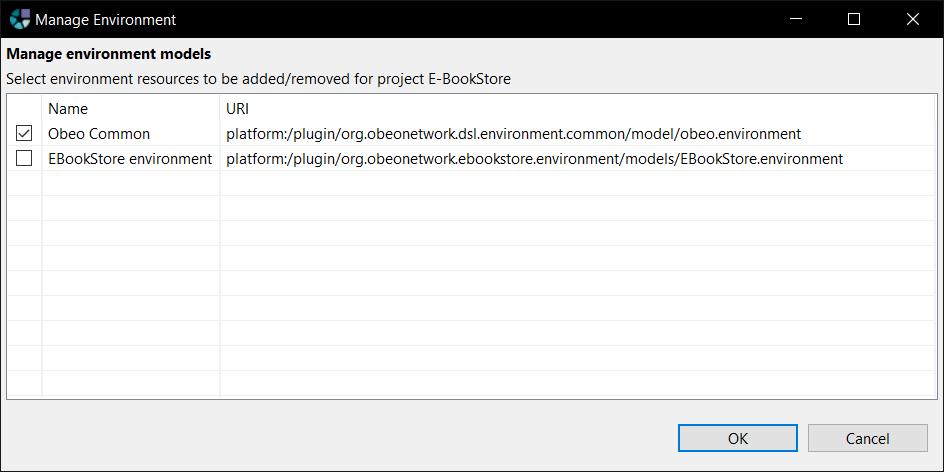
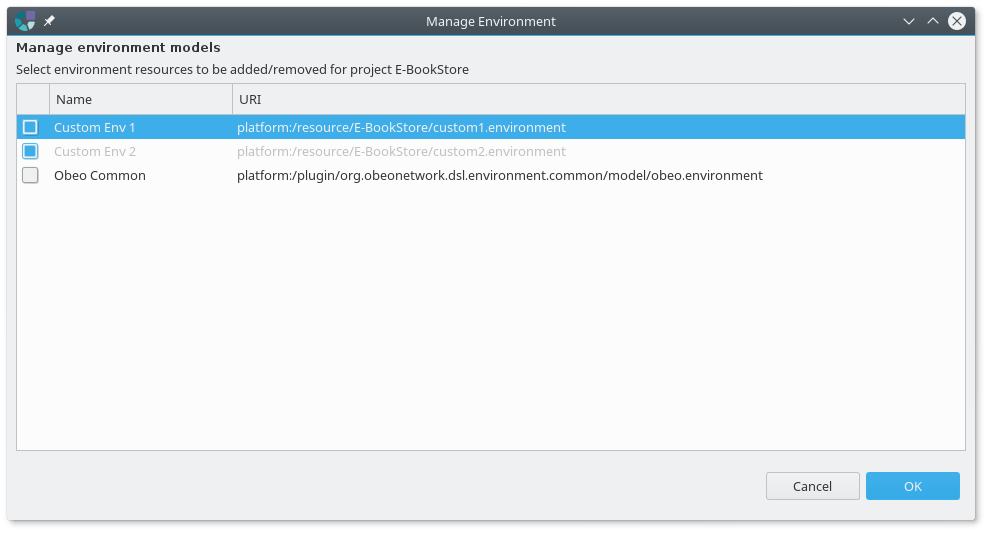
[SAFRAN-844] Show session resources in environment managment dialog - documentation

Changed region(s): [[0.0, 0.0, 1.0, 1.0]]

diff --git a/designs/environment/plugins/org.obeonetwork.dsl.environment.design.doc/doc/Obeo Network - Environment tooling.html b/designs/environment/plugins/org.obeonetwork.dsl.environment.design.doc/doc/Obeo Network - Environment tooling.html
@@ -13,33 +13,42 @@
 			<code>Contact</code> guillaume.coutable@obeo.fr
 		</p>
 		<h1 id="ObeoNetworkOutillageenvironnement">Obeo Network &#8211; Outillage environnement</h1>
-		<p>les modèles environnements sont principalement utilisés pour définir des librairies de types dans le but de rendre ces types disponibles dans les modèles Safr@n.
-			<br/>Avant la version Safr@n 1.9 le modèle &#171;obeo.environment&#187; était ajouté par défaut dans les dépendances des projets modeling. Depuis la version Safr@n 1.9 il est possible de choisir quelles seront les ressources environnements ajoutées lors de la création d&#8217;un projet modeling, ainsi que de gérer les ressources environnement d&#8217;un projet.
+		<p>Les modèles environnements sont principalement utilisés pour définir des librairies de types dans le but de rendre ces types disponibles dans les modèles Safr@n.
+			<br/>Avant la version Safr@n 1.9 le modèle &#171;obeo.environment&#187; était ajouté par défaut dans les dépendances des projets modeling. Depuis la version Safr@n 1.9 il est possible de choisir les ressources environnements ajoutées lors de la création d&#8217;un projet modeling, ainsi que de gérer les ressources environnement d&#8217;un projet.
 		</p>
-		<h2 id="Crationdunprojetmodeling">Création d&#8217;un projet modeling</h2>
-		<p>A la création d&#8217;un projet modeling la ressource &#171;obeo.environement&#187; est ajoutée par defaut. Il est possible de contribuer au point d&#8217;extension &#171;org.obeonetwork.dsl.environment.providedEnvironmentModel&#187; pour modifier le choix par défaut de la ressource environnement. Si une ou plusieurs ressources environnements sont contribuées, la ou les ressources ajoutées par défaut seront celles dont la priorités est la plus élevée.</p>
-		<p>Note: La ressource &#171;obeo.environment&#187; est contribuée à l&#8217;aide de ce point d&#8217;extension avec une priorité de zéro.</p>
+		<h2 id="modeling_project_creation">Création d&#8217;un projet modeling</h2>
+		<p>A la création d&#8217;un projet modeling la ressource &#171;obeo.environment&#187; est ajoutée par defaut.</p>
+		<p>Ce comportement repose sur l&#8217;utilisation du point d&#8217;extension &#171;org.obeonetwork.dsl.environment.providedEnvironmentModel&#187; qui permet de définir les modèles environnement utilisables dans le studio.</p>
+		<p>Ce point d&#8217;extenion permet de contribuer des modèles environement en définissant pour chacun d&#8217;eux :</p>
+		<ul>
+			<li>Un nom</li>
+			<li>Une URI</li>
+			<li>Une priorité</li>
+		</ul>
+		<p>A la création d&#8217;un projet modeling, seuls les modèles environnement dont la priorité est la plus élevée sont chargés. La ressource &#171;obeo.environment&#187; est contribuée à ce point d&#8217;extension avec la priorité 0. (Ainsi, si un autre modèle environement est contribué avec la priorité 0, ces deux modèles seront chargés par défaut à la création d&#8217;un projet modeling).</p>
 		<h2 id="manage_env_resource">Gestion des ressources environnement</h2>
-		<p>Il est possible de faire apparaître une boîte de dialogue permettant de gérer les ressources environnemet d&#8217;un projet modeling en utilisant le menu &#171;clic-droit -&gt; Manage environment resources&#187; soit sur un projet modeling, soit sur une ressource aird ou soit sur l'élément "Project Dependencies"</p>
+		<p>La boîte de dialogue &#171;Manage Environment&#187; permet de gérer les ressources environnement pour un projet de modélisation donné. Elle est mise à disposition par l&#8217;action &#171;Manage environment resources&#187; du menu contextuel d&#8217;un projet modeling, d&#8217;une ressource aird, ou de l'élément &#171;Project Dependencies&#187; :</p>
 		<p>
 			<img style="width:1200px" border="0" src="./pics/Manage environment resources - actions.png"/>
 		</p>
-		<p>La boîte de dialogue est composé d&#8217;un tableau listant toutes les ressources environnements de IS Designer. Les premières ressources affichées sont celles présentes dans les dépendances du projet.</p>
+		<p>La boîte de dialogue est composée d&#8217;un tableau listant toutes les ressources environnements accessibles pour le projet modeling concerné.
+			<br/>Les ressources environnment se trouvant dans le projet sont automatiquement actives et ne peuvent pas être désactivées. Elles sont présentées en gris.
+			<br/>Les ressources environnement apportées par point d&#8217;extension sont désactivables en décochant la case à cocher en début de ligne. Elles sont présentées en noir.
+		</p>
 		<p>
 			<img style="width:800px" border="0" src="./pics/Manage environment resources - dialog.png"/>
 		</p>
-		<p>Il est possible d&#8217;ajouter et de retirer des dépendances du projet en cochant ou en décochant la checkbox en début de ligne. Le résultat sera appliqué lors de la validation de la boîte de dialogue.
-			<br/>Si certains éléments d&#8217;une ressource retirée du projet sont utilisés dans d&#8217;autres ressources, un message d&#8217;avertissement s&#8217;affiche.
-		</p>
+		<p>Le résultat de la sélection est appliqué lors de la validation de la boîte de dialogue.</p>
+		<p>Dans le cas du décochage d&#8217;une ressource, une vérification est faite pour s&#8217;assurer que les éléments contenus dans la ressource ne sont pas utilisés dans le projet modeling. Si certains éléments d&#8217;une ressource retirée du projet sont utilisés, un dialogue d&#8217;avertissement s&#8217;affiche demandant confirmation à l&#8217;utilisateur :</p>
 		<p>
 			<img style="width:500px" border="0" src="./pics/Manage environment resources - warning dialog.png"/>
 		</p>
-		<p>Ce message affiche sous forme d&#8217;arbre les objets qui références des éléments de la ressource environnement sur le point d'être retirée des dépendances du projet (ici obeo.environment). Si le message d&#8217;avertissement est validé les références listées seront supprimées. Si le message d&#8217;avertissement est annulé la ressource environnement ne sera pas retirée des dépendances du projet.
-			<br/>Il est possible que plusieurs messages d&#8217;avertissements se succèdent si plusieurs ressources environnement sont retirées des dépendances du projet.
+		<p>Ce dialogue présente sous forme d&#8217;arbre les objets qui référencent des éléments de la ressource environnement sur le point d'être retirée des dépendances du projet (ici obeo.environment). Si ce dialogue est validé, les références listées sont supprimées. Si le message d&#8217;avertissement est annulé la ressource environnement n&#8217;est pas retirée des dépendances du projet.
+			<br/>Il est possible que plusieurs messages d&#8217;avertissements se succèdent dans le cas où plusieurs ressources environnement sont retirées des dépendances du projet.
 		</p>
 		<p>Remarques :
-			<br/>- Les changements sont appliqués mais pas sauvés
-			<br/>- Il est possible d&#8217;annuler tous les changements opérés en faisant un "Ctrl+Z.
+			<br/>- Les changements sont appliqués mais pas sauvegardés
+			<br/>- Il est possible d&#8217;annuler tous les changements opérés à l&#8217;aide du raccourci clavier "Ctrl+Z.
 		</p>
 	</body>
 </html>
